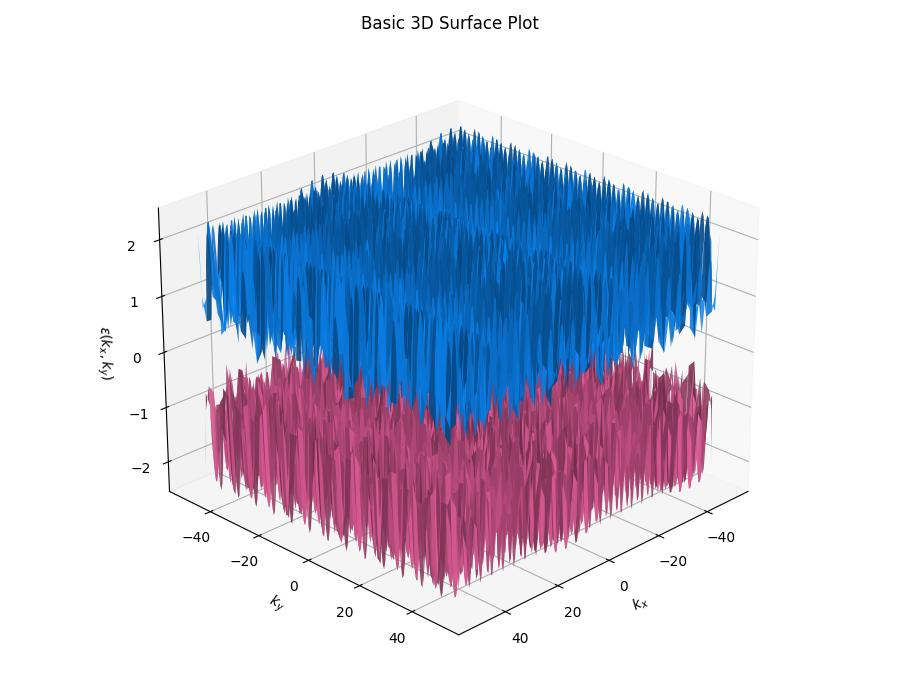
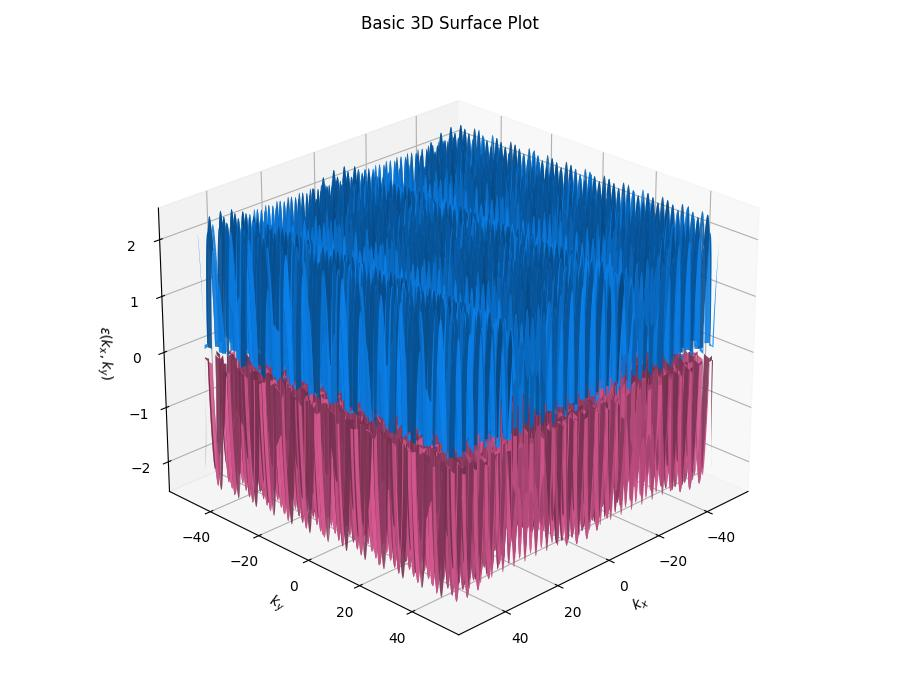
create more accurate plots.

Changed region(s): [[0.2178, 0.18, 0.8089, 0.87]]

diff --git a/main.py b/main.py
@@ -17,8 +17,8 @@ def epsilon(max_kx, max_ky, a, t):
         elev: elevation angle for 3D view
         azim: azimuth angle for 3D view
     """
-    kx = np.linspace(-max_kx, max_kx, 200)
-    ky = np.linspace(-max_ky, max_ky, 200)
+    kx = np.linspace(-max_kx, max_kx, 100)
+    ky = np.linspace(-max_ky, max_ky, 100)
     KX, KY = np.meshgrid(kx, ky)
     epsilon_p = t * np.sqrt(
         1 + 
